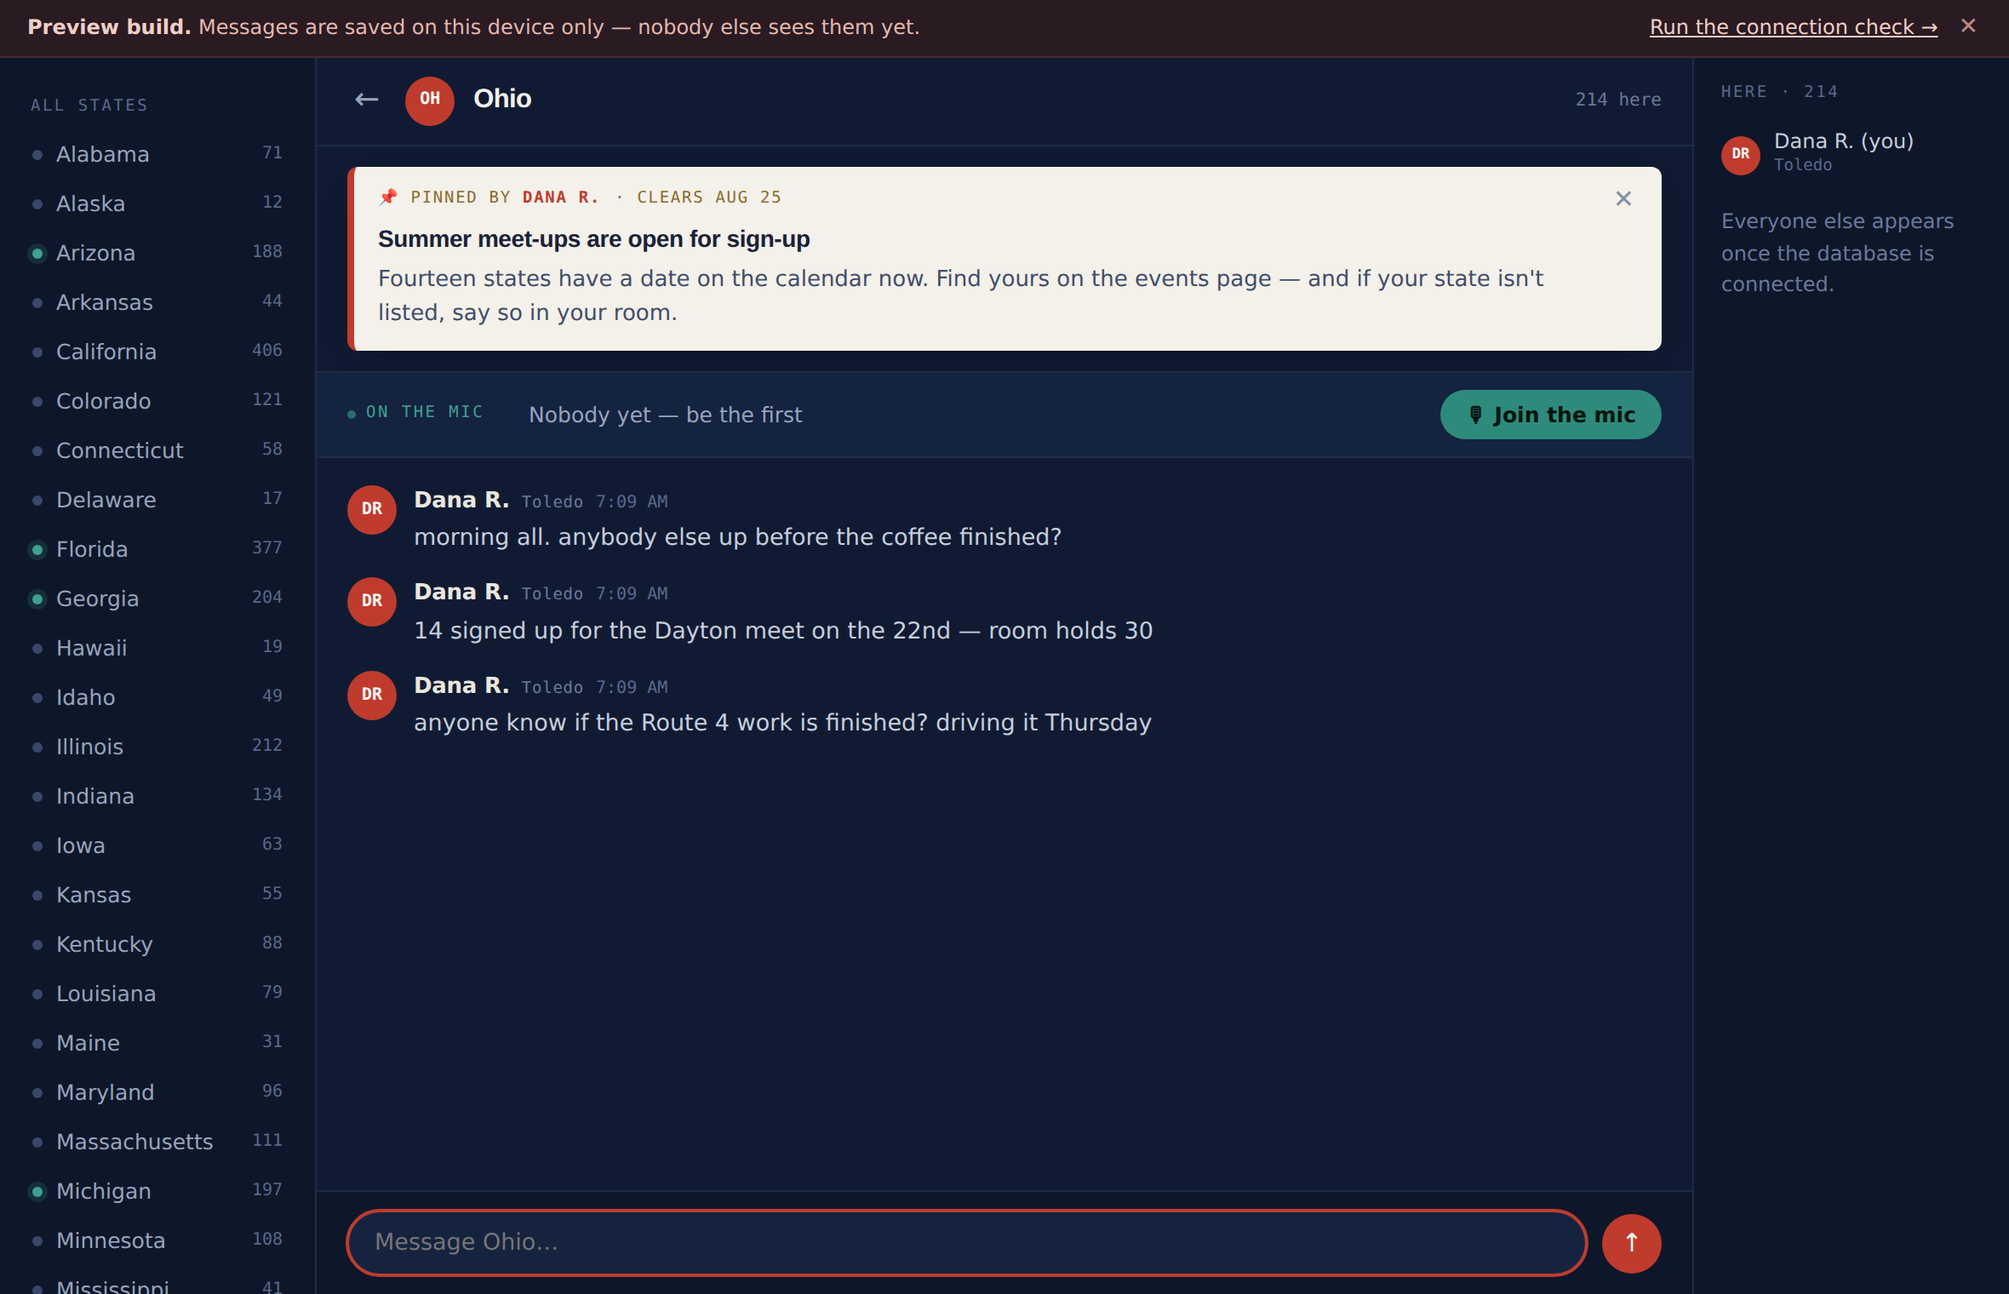
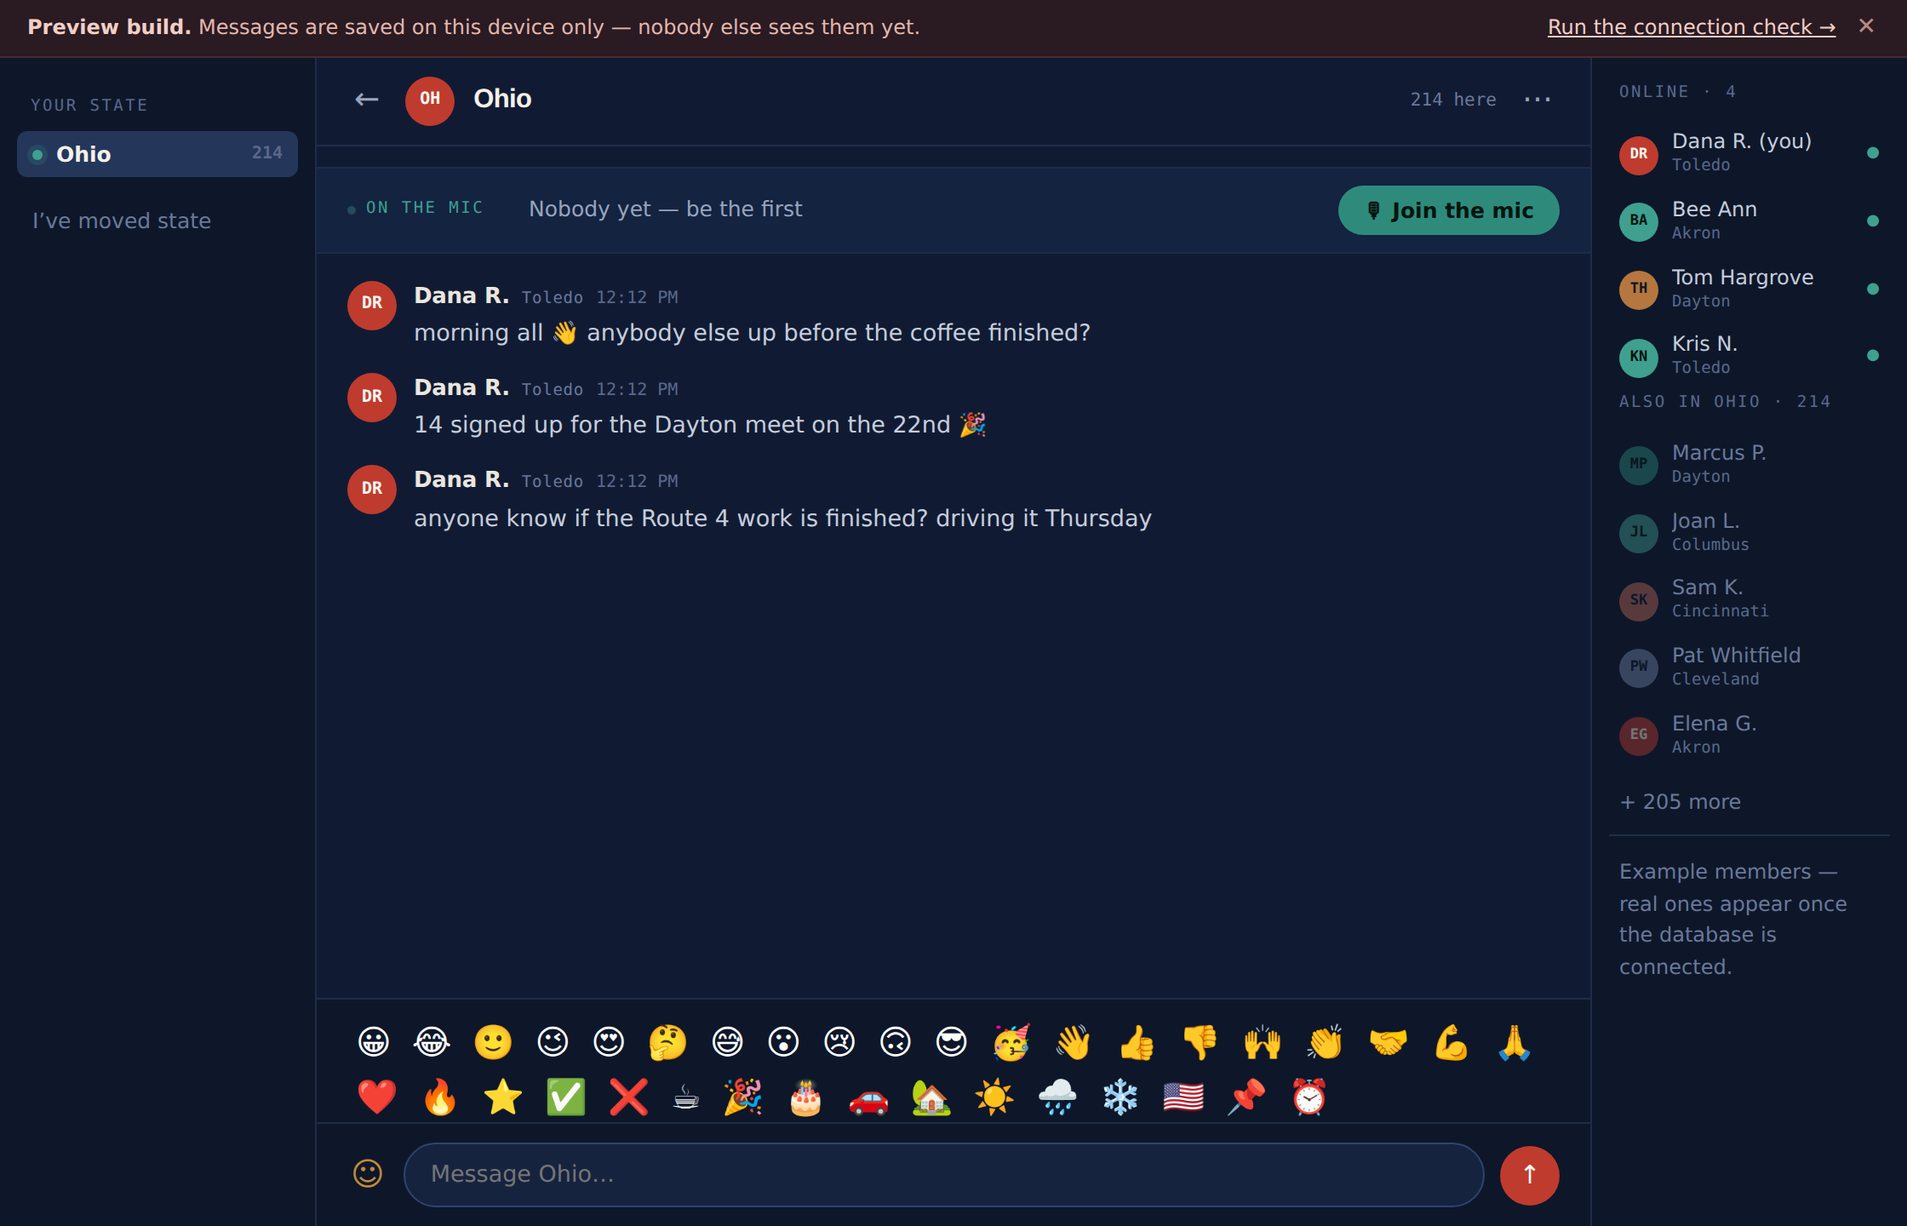
Members see only their own state; add roster, emoji and voice pop-out
Measured on the live community: Mighty Networks withholds microphone
permission from the frame, so asking for it there can only ever fail.
The mic button now opens the room in its own tab, where the microphone
works and the member is already signed in, and it says so before being
pressed. If a host ever grants the permission the app notices and keeps
voice inline.

Also from testing against the real site:

- frame-ancestors now includes patriotchute.com. Without it, switching
  the deployment to main would have blocked the community's own embed.
- #app takes a min-height, because the embed reported a 0x0 viewport and
  height:100% alone can collapse the app to nothing.
- window.open no longer passes noopener, which forced a null return and
  made every successful pop-out look like a blocked one.

Product changes:

- A member belongs to one state and sees that room, with a way to move
  if they relocate. Browsing all 51 made the app read as a directory.
- The roster lists who is online with a green dot, then everyone else in
  the state, capped so large states do not render hundreds of grey rows.
- A small fixed emoji tray in the composer.

Claude-Session: https://claude.ai/code/session_01Dn3QxfasG2xg4YTEG3iPH6

diff --git a/app.js b/app.js
@@ -173,7 +173,7 @@
     var grid = $('grid');
     q = (q || '').trim().toLowerCase();
     grid.textContent = '';
-    var list = S.filter(function (s) {
+    var list = myStates().filter(function (s) {
       return !q || s.n.toLowerCase().indexOf(q) === 0 || s.a.toLowerCase() === q;
     });
     if (!list.length) {
@@ -202,12 +202,23 @@
   };
 
   /* ── the rail ────────────────────────────────────────────── */
+  /* Members belong to one state. The rail lists only their own room, plus a
+     way out if they move house — browsing all 51 was making the app feel like
+     a directory rather than somewhere you live. Hosts still see everything. */
+  function myStates() {
+    if (!me) return S;
+    if (me.host) return S;
+    return S.filter(function (s) { return s.a === me.state; });
+  }
+
   function drawRail() {
     var rail = $('rail');
     rail.textContent = '';
-    var l = document.createElement('div'); l.className = 'rl'; l.textContent = 'All states';
+    var mine = myStates();
+    var l = document.createElement('div'); l.className = 'rl';
+    l.textContent = me && !me.host ? 'Your state' : 'All states';
     rail.appendChild(l);
-    S.forEach(function (s) {
+    mine.forEach(function (s) {
       var b = document.createElement('button');
       b.type = 'button';
       b.className = 'ri' + (s.a === room.a ? ' cur' : '') + (LIVE.indexOf(s.a) > -1 ? ' on' : '');
@@ -218,6 +229,28 @@
       b.onclick = function () { openRoom(s); };
       rail.appendChild(b);
     });
+    if (me && !me.host) {
+      var move = document.createElement('button');
+      move.type = 'button'; move.className = 'ri';
+      move.style.marginTop = '10px'; move.style.color = 'var(--faint)';
+      move.textContent = 'I’ve moved state';
+      move.onclick = changeState;
+      rail.appendChild(move);
+    }
+  }
+
+  function changeState() {
+    var name = prompt('Which state are you in now?', byAbbr(me.state).n);
+    if (!name) return;
+    var q = name.trim().toLowerCase();
+    var found = null;
+    S.forEach(function (s) {
+      if (s.n.toLowerCase() === q || s.a.toLowerCase() === q) found = s;
+    });
+    if (!found) { alert('I don’t recognise “' + name + '”. Try the full state name.'); return; }
+    me.state = found.a;
+    put('profile', me);
+    openRoom(found);
   }
 
   /* ── a room ──────────────────────────────────────────────── */
@@ -282,33 +315,156 @@
     i.value = '';
   };
 
+  /* Roster: online first with a green dot, then everyone else in the state.
+     Big states run to hundreds of members, so the offline list is capped —
+     a scroll of 390 grey names tells you nothing you wanted to know. */
+  var OFFLINE_SHOWN = 25;
+
+  function personRow(p, isYou) {
+    var row = document.createElement('div');
+    row.className = 'wp' + (p.online || isYou ? '' : ' off');
+    var av = document.createElement('span'); av.className = 'av xs';
+    avatar(av, {
+      name: p.name, photo: p.photo,
+      bg: p.bg || COLORS[p.name.length % COLORS.length].bg,
+      fg: p.fg || COLORS[p.name.length % COLORS.length].fg
+    });
+    var t = document.createElement('span'); t.className = 't';
+    var n = document.createElement('span'); n.className = 'n';
+    n.textContent = p.name + (isYou ? ' (you)' : '');
+    t.appendChild(n);
+    if (p.city) { var c = document.createElement('span'); c.className = 'c'; c.textContent = p.city; t.appendChild(c); }
+    row.appendChild(av); row.appendChild(t);
+    if (p.online || isYou) { var d = document.createElement('span'); d.className = 'mk'; d.textContent = '●'; row.appendChild(d); }
+    return row;
+  }
+
+  function label(text) {
+    var l = document.createElement('div'); l.className = 'wl'; l.textContent = text;
+    return l;
+  }
+
   function drawWho() {
     var w = $('whoList');
     w.textContent = '';
-    var l = document.createElement('div'); l.className = 'wl';
-    l.textContent = 'Here · ' + headcount(room);
-    w.appendChild(l);
-    if (me) {
-      var row = document.createElement('div'); row.className = 'wp';
-      var av = document.createElement('span'); av.className = 'av xs'; avatar(av, me);
-      var t = document.createElement('span'); t.className = 't';
-      var n = document.createElement('span'); n.className = 'n'; n.textContent = me.name + ' (you)';
-      t.appendChild(n);
-      if (me.city) { var c = document.createElement('span'); c.className = 'c'; c.textContent = me.city; t.appendChild(c); }
-      row.appendChild(av); row.appendChild(t);
-      w.appendChild(row);
+
+    var sample = window.SAMPLE_PEOPLE || [];
+    var online = sample.filter(function (p) { return p.online; });
+    var offline = sample.filter(function (p) { return !p.online; });
+    var total = headcount(room);
+
+    w.appendChild(label('Online · ' + (online.length + (me ? 1 : 0))));
+    if (me) w.appendChild(personRow(me, true));
+    online.forEach(function (p) { w.appendChild(personRow(p)); });
+
+    w.appendChild(label('Also in ' + room.n + ' · ' + total));
+    offline.slice(0, OFFLINE_SHOWN).forEach(function (p) { w.appendChild(personRow(p)); });
+
+    var rest = total - offline.slice(0, OFFLINE_SHOWN).length - online.length - (me ? 1 : 0);
+    if (rest > 0) {
+      var more = document.createElement('p');
+      more.className = 'hint'; more.style.padding = '9px 6px 0';
+      more.textContent = '+ ' + rest.toLocaleString('en-US') + ' more';
+      w.appendChild(more);
     }
+
     var note = document.createElement('p');
-    note.className = 'hint'; note.style.padding = '10px 6px 0';
-    note.textContent = 'Everyone else appears once the database is connected.';
+    note.className = 'hint';
+    note.style.cssText = 'padding:12px 6px 0;border-top:1px solid var(--line);margin-top:10px';
+    note.textContent = 'Example members — real ones appear once the database is connected.';
     w.appendChild(note);
   }
 
+  /* ── emoji ───────────────────────────────────────────────
+     Deliberately a small fixed set rather than a full picker: the whole
+     Unicode catalogue is a search box nobody wants in a chat this simple. */
+  var EMOJI = ('😀 😂 🙂 😉 😍 🤔 😅 😮 😢 🙃 😎 🥳 👋 👍 👎 🙌 👏 🤝 💪 🙏 ❤ 🔥 ⭐ ✅ ❌ ☕ 🎉 🎂 🚗 🏡 ☀ 🌧 ❄ 🇺🇸 📌 ⏰').split(' ');
+  var tray = $('emoji'), emjBtn = $('emjBtn');
+
+  EMOJI.forEach(function (ch) {
+    var b = document.createElement('button');
+    b.type = 'button'; b.textContent = ch; b.setAttribute('aria-label', ch);
+    b.onclick = function () {
+      var i = $('ci');
+      i.value = i.value + (i.value && !/\s$/.test(i.value) ? ' ' : '') + ch;
+      i.focus();
+    };
+    tray.appendChild(b);
+  });
+
+  function toggleTray(open) {
+    tray.hidden = !open;
+    emjBtn.setAttribute('aria-expanded', String(open));
+  }
+  emjBtn.onclick = function () { toggleTray(tray.hidden); };
+
+  /* ── the ⋯ menu ──────────────────────────────────────────── */
+  var meMenu = $('meMenu'), meBtn2 = $('meBtn2');
+  function toggleMenu(open) {
+    meMenu.hidden = !open;
+    meBtn2.setAttribute('aria-expanded', String(open));
+  }
+  meBtn2.onclick = function (e) { e.stopPropagation(); toggleMenu(meMenu.hidden); };
+  document.addEventListener('click', function () { toggleMenu(false); });
+  meMenu.onclick = function (e) { e.stopPropagation(); };
+  $('mMove').onclick = function () { toggleMenu(false); changeState(); };
+  $('mOut').onclick = function () {
+    toggleMenu(false);
+    if (!confirm('Sign out and set up again on this device?')) return;
+    put('profile', null); me = null; show('vJoin');
+  };
+
   /* ── the microphone ──────────────────────────────────────
-     This is the real test. In a cross-origin iframe the browser blocks
-     getUserMedia unless the hosting page opted in, and it fails the same
-     way a user denial does. We report which it was, plainly. */
+     Measured on the real community (11 Aug 2026): Mighty Networks does not
+     pass microphone permission into the frame, so getUserMedia in the embed
+     fails with NotAllowedError no matter what the member does.
+
+     So when we are embedded and the policy says no, we don't ask and fail —
+     we open the room in its own tab, where the microphone works normally and
+     the member is already signed in. One extra tap instead of a dead end. If
+     a host ever does grant the permission, the check below sees it and voice
+     happens inline as it should. */
   var micStream = null, micBtn = $('micBtn');
+
+  var framed = true;
+  try { framed = window.self !== window.top; } catch (e) { framed = true; }
+
+  function micPermitted() {
+    try {
+      if (document.featurePolicy && document.featurePolicy.allowsFeature) {
+        return document.featurePolicy.allowsFeature('microphone');
+      }
+    } catch (e) {}
+    return null;              // browser won't say — worth trying
+  }
+
+  function popOut() {
+    /* No 'noopener' feature here: it forces window.open to return null, which
+       would make every successful pop-out look like a blocked one. Sever the
+       link afterwards instead — same origin, so this is allowed. */
+    var w = window.open(location.origin + location.pathname + '?voice=' + room.a, '_blank');
+    try { if (w) w.opener = null; } catch (e) {}
+    if (!w) {
+      micBtn.className = 'jn err';
+      micBtn.textContent = 'Allow pop-ups to talk';
+      $('vNames').textContent = 'Your browser blocked the new tab — allow pop-ups for this site';
+      return;
+    }
+    micBtn.className = 'jn out';
+    micBtn.textContent = '🎙 Talking in the other tab';
+    $('vNames').textContent = 'Voice opened in its own tab — chat carries on here';
+  }
+
+  function startMic() {
+    micBtn.textContent = 'Asking…';
+    return navigator.mediaDevices.getUserMedia({ audio: true }).then(function (stream) {
+      micStream = stream;
+      micBtn.className = 'jn out';
+      micBtn.textContent = 'Leave the mic';
+      renderMics();
+      meter(stream);
+    });
+  }
 
   micBtn.onclick = function () {
     if (micStream) {
@@ -324,23 +480,21 @@
       micBtn.textContent = 'Voice not supported here';
       return;
     }
-    micBtn.textContent = 'Asking…';
-    navigator.mediaDevices.getUserMedia({ audio: true }).then(function (stream) {
-      micStream = stream;
-      micBtn.className = 'jn out';
-      micBtn.textContent = 'Leave the mic';
-      renderMics();
-      meter(stream);
-    }).catch(function (err) {
+    if (framed && micPermitted() === false) { popOut(); return; }
+
+    startMic().catch(function (err) {
+      var name = (err && err.name) || 'Error';
+      if (name === 'NotAllowedError' && framed) { popOut(); return; }
       micBtn.className = 'jn err';
-      micBtn.textContent = err && err.name === 'NotAllowedError'
-        ? 'Microphone blocked'
-        : 'No microphone found';
-      $('vNames').textContent = err && err.name === 'NotAllowedError'
-        ? 'Blocked — either you declined, or this page is embedded without mic permission'
+      micBtn.textContent = name === 'NotAllowedError' ? 'Microphone blocked' : 'No microphone found';
+      $('vNames').textContent = name === 'NotAllowedError'
+        ? 'You declined the microphone — press the button again to allow it'
         : 'No microphone on this device';
     });
   };
+
+  /* Say what the button will actually do, before it's pressed. */
+  if (framed && micPermitted() === false) micBtn.textContent = '🎙 Open a tab to talk';
 
   function renderMics() {
     var mics = $('mics');
@@ -506,12 +660,25 @@
 
   /* ── boot ────────────────────────────────────────────────── */
   drawGrid('');
+
+  /* ?voice=OH — this tab was opened from the embed so someone could talk.
+     Land in that room and turn the microphone on without a second press. */
+  var wantVoice = (location.search.match(/[?&]voice=([A-Z]{2})/) || [])[1];
+
   if (me) {
     $('em').value = me.email || '';
     $('nm').value = me.name;
     $('cty').value = me.city || '';
     sel.value = me.state;
-    openRoom(byAbbr(me.state === room.a ? room.a : me.state));
+    openRoom(wantVoice ? byAbbr(wantVoice) : room);
+    if (wantVoice && !framed) {
+      $('vNames').textContent = 'Opening your microphone…';
+      startMic().catch(function () {
+        micBtn.className = 'jn';
+        micBtn.textContent = '🎙 Join the mic';
+        $('vNames').textContent = 'Press the button when you are ready to talk';
+      });
+    }
   } else {
     paintSwatches();
     show('vJoin');

diff --git a/app.css b/app.css
@@ -39,7 +39,10 @@ body{
 button,input,select,textarea{font-family:inherit}
 :focus-visible{outline:2px solid var(--red);outline-offset:2px}
 
-#app{height:100%;display:flex;flex-direction:column;min-height:0}
+/* The community's embed reported a 0×0 viewport at script time, so height:100%
+   alone can collapse the whole app to nothing. The floor keeps it usable even
+   when the host frame declares no height of its own. */
+#app{height:100%;min-height:520px;display:flex;flex-direction:column}
 .view{display:none;flex:1;flex-direction:column;min-height:0}
 .view.on{display:flex}
 
@@ -171,6 +174,23 @@ button,input,select,textarea{font-family:inherit}
 .m .tx{font-size:13.5px;color:#C6CDDC;line-height:1.5;overflow-wrap:anywhere;white-space:pre-wrap}
 .sys{font-family:var(--mono);font-size:10.5px;color:var(--faint2);text-align:center;padding:2px 0}
 .sys.pin{color:var(--gold)}
+/* ⋯ menu in the room header */
+.menuwrap{position:relative;display:flex}
+.menu{position:absolute;right:0;top:26px;background:var(--panel);border:1px solid var(--line2);
+  border-radius:8px;padding:5px;display:flex;flex-direction:column;min-width:190px;z-index:20;
+  box-shadow:0 14px 34px -14px rgba(0,0,0,.8)}
+.menu button{background:none;border:0;color:var(--dim);text-align:left;padding:8px 10px;border-radius:5px;
+  font-size:13px;cursor:pointer;white-space:nowrap}
+.menu button:hover{background:var(--panel2);color:var(--text)}
+
+/* emoji tray */
+.emoji{display:flex;flex-wrap:wrap;gap:2px;padding:10px 18px 0;background:var(--deep);
+  border-top:1px solid var(--line);max-height:132px;overflow-y:auto}
+.emoji button{background:none;border:0;font-size:20px;line-height:1;padding:5px;border-radius:6px;cursor:pointer}
+.emoji button:hover{background:var(--panel2)}
+.emj{background:none;border:0;color:var(--faint);font-size:19px;cursor:pointer;padding:0 2px;flex:0 0 auto;line-height:1}
+.emj:hover,.emj[aria-expanded="true"]{color:var(--gold)}
+
 .cmp{border-top:1px solid var(--line);padding:11px 18px;display:flex;gap:9px;align-items:center;background:var(--deep)}
 .cmp input{flex:1;background:var(--panel);border:1px solid var(--line2);color:var(--text);border-radius:20px;
   padding:10px 15px;font-size:13.5px;min-width:0}
@@ -185,6 +205,8 @@ aside.who{border-left:1px solid var(--line);background:var(--deep);padding:14px 
 .wp .t .n{font-size:12px;color:#C6CDDC;line-height:1.25;overflow:hidden;text-overflow:ellipsis;white-space:nowrap;display:block}
 .wp .t .c{font-family:var(--mono);font-size:9.5px;color:var(--faint2);display:block}
 .wp .mk{margin-left:auto;font-size:9px;color:var(--teal2)}
+.wp.off .av{opacity:.42}
+.wp.off .t .n{color:var(--faint)}
 
 /* announcements */
 .ann{flex:1;display:grid;grid-template-columns:1fr 300px;min-height:0}

diff --git a/index.html b/index.html
@@ -88,6 +88,13 @@
           <span class="av sm" id="tAb" style="background:#BF3B2E;color:#FBF8F2">OH</span>
           <h1 id="tNm">Ohio</h1>
           <span class="meta" id="tCt"></span>
+          <div class="menuwrap">
+            <button class="back" type="button" id="meBtn2" aria-label="You" aria-expanded="false">⋯</button>
+            <div class="menu" id="meMenu" hidden>
+              <button type="button" id="mMove">I've moved state</button>
+              <button type="button" id="mOut">Sign out of this device</button>
+            </div>
+          </div>
         </div>
 
         <div class="notice" id="notice" hidden>
@@ -108,7 +115,9 @@
 
         <div class="chat" id="chat"></div>
 
+        <div class="emoji" id="emoji" hidden></div>
         <form class="cmp" id="cmp">
+          <button class="emj" type="button" id="emjBtn" aria-label="Emoji" aria-expanded="false">☺</button>
           <input id="ci" type="text" aria-label="Message" autocomplete="off" enterkeyhint="send">
           <button class="snd" type="submit" aria-label="Send">↑</button>
         </form>

diff --git a/states.js b/states.js
@@ -24,6 +24,19 @@ window.STATES = [
 /* Rooms shown as "live" in the preview. Replaced by real voice presence later. */
 window.LIVE_SEED = ["OH","TX","FL","PA","MI","NC","GA","AZ"];
 
+/* Example members, shown until the database is connected so the roster design
+   can be judged. Every one of these disappears the moment real people exist. */
+window.SAMPLE_PEOPLE = [
+  {name:"Bee Ann",     city:"Akron",      online:true},
+  {name:"Tom Hargrove",city:"Dayton",     online:true},
+  {name:"Kris N.",     city:"Toledo",     online:true},
+  {name:"Marcus P.",   city:"Dayton",     online:false},
+  {name:"Joan L.",     city:"Columbus",   online:false},
+  {name:"Sam K.",      city:"Cincinnati", online:false},
+  {name:"Pat Whitfield",city:"Cleveland", online:false},
+  {name:"Elena G.",    city:"Akron",      online:false}
+];
+
 /* Avatar colours, paired so text stays legible on each. */
 window.AV_COLORS = [
   {bg:"#BF3B2E",fg:"#FBF8F2"},{bg:"#2E8B7C",fg:"#03150F"},{bg:"#4A6FA5",fg:"#F4F1EA"},
